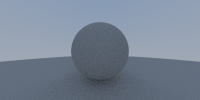
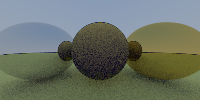
materials addedgit add *!

diff --git a/src/main.rs b/src/main.rs
@@ -3,7 +3,6 @@ extern crate rand;
 
 use image::{ImageBuffer, Pixel, Rgb};
 use std::f32;
-use rand::random;
 
 mod vec3;
 use vec3::*;
@@ -17,29 +16,30 @@ mod world;
 use world::*;
 mod camera;
 use camera::*;
+mod material;
+use material::*;
+mod utils;
 
-fn color(ray: Ray, world: &World) -> Vec3 {
-    let mut hit_record: HitRecord = HitRecord::new();
-    if world.hit(&ray, 0.0001, 255.0, &mut hit_record) {
-        let target: Vec3 = hit_record.p + hit_record.normal + random_in_unit_sphere();
-        return 0.5*color(Ray::new(hit_record.p, target-hit_record.p), &world);
+fn color(ray: Ray, world: &World, depth: i32) -> Vec3 {
+    let mut hit_record: HitRecord = HitRecord::new(
+        Material::new_blank()
+    );
+    if world.hit(&ray, 0.0001, f32::MAX, &mut hit_record) {
+        let mut scattered: Ray = Ray::new_empty();
+        let mut attenuation: Vec3 = Vec3::new(0.0, 0.0, 0.0);
+        let scatter_result: (bool, Ray, Vec3) = hit_record.mat.scatter(&ray, &hit_record, &attenuation, &scattered);
+        if depth < 50 && scatter_result.0 {
+            return scatter_result.2*color(scatter_result.1, &world, depth+1);
+        }
+        else {
+            return Vec3::new(0.0, 0.0, 0.0);
+        }
     }
     else {
         let unit_direction: Vec3 = Vec3::unit_vector(ray.direction());
         let t: f32 = 0.5 * (unit_direction.y() + 1.0);
         return (1.0-t)*Vec3::new(1.0, 1.0, 1.0) + t*Vec3::new(0.5, 0.7, 1.0);
     }
-}
-
-fn random_in_unit_sphere() -> Vec3 {
-    let mut p: Vec3 = Vec3::new(0.0, 0.0, 0.0);
-    loop {
-        p = 2.0*Vec3::new(rand::random::<f32>(),rand::random::<f32>(),rand::random::<f32>()) - Vec3::new(1.0, 1.0, 1.0);
-        if p.squared_length() >= 1.0 {
-            break;
-        }
-    }
-    p
 }
 
 fn main() {
@@ -54,10 +54,35 @@ fn main() {
     let cam: Camera = Camera::new();
 
     let mut spheres: Vec<Sphere> = Vec::new();
-    spheres.push(Sphere::new(Vec3::new(0.0, 0.0, -1.0), 0.5));
-    spheres.push(Sphere::new(Vec3::new(0.0, -100.5, -1.0), 100.0));
+    spheres.push(
+        Sphere::new(
+            Vec3::new(0.0, 0.0, -1.0), 0.5,
+            Material::new(Vec3::new(0.8, 0.6, 0.2), MaterialComposition::Lambertian)
+        )
+    );
+    spheres.push(
+        Sphere::new(
+            Vec3::new(0.0, -100.5, -1.0),
+            100.0,
+             Material::new(Vec3::new(0.8, 0.8, 0.3), MaterialComposition::Lambertian)
+        )
+    );
+    spheres.push(
+        Sphere::new(
+            Vec3::new(1.0, 0.0, -1.0),
+            0.5,
+             Material::new(Vec3::new(0.8, 0.6, 0.2), MaterialComposition::Metal)
+        )
+    );
+    spheres.push(
+        Sphere::new(
+            Vec3::new(-1.0, 0.0, -1.0),
+            0.5,
+             Material::new(Vec3::new(0.8, 0.8, 0.8), MaterialComposition::Metal)
+        )
+    );
     let world: World = World::from_vec(spheres);
-
+    let depth: i32 = 0;
     for j in 0..ny {
         for i in 0..nx {
             let mut col: Vec3 = Vec3::new(0.0, 0.0, 0.0);
@@ -66,7 +91,7 @@ fn main() {
                 let v: f32 = (((ny-j) as f32)+rand::random::<f32>())/fy;
                 let r: Ray = cam.get_ray(u, v);
                 let p: Vec3 = r.point_at_parameter(2.0);
-                col += color(r, &world);
+                col += color(r, &world, depth);
             }
             col /= fx;
             col = Vec3::new(f32::sqrt(col.r()),f32::sqrt(col.g()),f32::sqrt(col.b()) );

diff --git a/src/material.rs b/src/material.rs
@@ -1,0 +1,54 @@
+
+use vec3::*;
+use ray::*;
+use hit::*;
+use utils::*;
+
+#[derive(Debug, Copy, Clone)]
+pub enum MaterialComposition {
+    Lambertian,
+    Metal
+}
+
+#[derive(Debug, Copy, Clone)]
+pub struct Material {
+    pub albedo: Vec3,
+    pub composition: MaterialComposition
+}
+
+impl Material {
+
+    pub fn new(albedo: Vec3, composition: MaterialComposition) -> Self {
+        Material {
+            albedo,
+            composition
+        }
+    }
+    pub fn new_blank() -> Self {
+        Material {
+            albedo: Vec3::new(0.0, 0.0, 0.0),
+            composition: MaterialComposition::Lambertian
+        }
+    }
+
+    pub fn scatter(&self, r_in: &Ray, hit_record: &HitRecord, attenuation: &Vec3, scattered: &Ray) -> (bool, Ray, Vec3) {
+        match self.composition {
+            MaterialComposition::Lambertian => self.scatter_lambertian(&r_in, &hit_record, &attenuation, &scattered),
+            MaterialComposition::Metal => self.scatter_metal(&r_in, &hit_record, &attenuation, &scattered)
+        }
+    }
+
+    pub fn scatter_lambertian(&self, r_in: &Ray, hit_record: &HitRecord, attenuation: &Vec3, scattered: &Ray) -> (bool, Ray, Vec3) {
+        let target: Vec3 = hit_record.p + hit_record.normal + Utils::random_in_unit_sphere();
+        let scatter: Ray = Ray::new(hit_record.p, target-hit_record.p);
+        let atten: Vec3  = attenuation.copy() - self.albedo;
+        (true, scatter, atten)
+    }
+
+    pub fn scatter_metal(&self, r_in: &Ray, hit_record: &HitRecord, attenuation: &Vec3, scattered: &Ray) -> (bool, Ray, Vec3) {
+        let reflected: Vec3 = Utils::reflect(&Vec3::unit_vector(r_in.direction()), &hit_record.normal);
+        let scatter: Ray = Ray::new(hit_record.p, reflected);
+        let atten: Vec3  = self.albedo;
+        (Vec3::dot(&scatter.direction(), &hit_record.normal) > 0.0, scatter, atten)
+    }
+}

diff --git a/src/sphere.rs b/src/sphere.rs
@@ -2,17 +2,20 @@
 use vec3::*;
 use hit::*;
 use ray::*;
+use material::*;
 
 pub struct Sphere {
     pub radius: f32,
-    pub center: Vec3
+    pub center: Vec3,
+    pub mat: Material,
 }
 
 impl Sphere {
-    pub fn new(center: Vec3, radius: f32) -> Self {
+    pub fn new(center: Vec3, radius: f32, mat: Material) -> Self {
         Sphere {
             center,
-            radius
+            radius,
+            mat
         }
     }
 }
@@ -30,6 +33,7 @@ impl Hit for Sphere {
                 rec.t = temp;
                 rec.p = r.point_at_parameter(rec.t);
                 rec.normal = (rec.p - self.center) / self.radius;
+                rec.mat = self.mat;
                 return true;
             }
             temp = (-b + f32::sqrt(f32::powf(b, 2.0) - a*c))/a;
@@ -37,6 +41,7 @@ impl Hit for Sphere {
                 rec.t = temp;
                 rec.p = r.point_at_parameter(rec.t);
                 rec.normal = (rec.p - self.center) / self.radius;
+                rec.mat = self.mat;
                 return true;
             }
         }

diff --git a/src/hit.rs b/src/hit.rs
@@ -1,33 +1,39 @@
 
 use vec3::*;
 use ray::*;
+use material::*;
 
 #[derive(Debug, Copy, Clone)]
 pub struct HitRecord {
     pub t: f32,
     pub p: Vec3,
-    pub normal: Vec3
+    pub normal: Vec3,
+    pub mat: Material
 }
 
 impl HitRecord {
-    pub fn new() -> Self {
+    pub fn new(mat: Material) -> Self {
         HitRecord{
             t: 0.0,
             p: Vec3::new(0.0, 0.0, 0.0),
-            normal: Vec3::new(0.0, 0.0, 0.0)
+            normal: Vec3::new(0.0, 0.0, 0.0),
+            mat
         }
     }
     pub fn from_hit_record(rec: &HitRecord) -> Self {
         HitRecord{
             t: rec.t,
             p: rec.p,
-            normal: rec.normal
+            normal: rec.normal,
+            mat: rec.mat
         }
     }
     pub fn copy_from_hit_record(&mut self, rec: &HitRecord) {
+
         self.t = rec.t;
         self.p = rec.p;
         self.normal = rec.normal;
+        self.mat = rec.mat;
     }
 }
 

diff --git a/src/utils.rs b/src/utils.rs
@@ -1,0 +1,26 @@
+
+extern crate rand;
+
+use vec3::*;
+
+pub struct Utils {}
+
+impl Utils {
+    pub fn random_in_unit_sphere() -> Vec3 {
+        let mut p: Vec3 = Vec3::new(0.0, 0.0, 0.0);
+        loop {
+            p = 2.0*Vec3::new(
+                rand::random::<f32>(),
+                rand::random::<f32>(),
+                rand::random::<f32>()
+            ) - Vec3::new(1.0, 1.0, 1.0);
+            if p.squared_length() >= 1.0 {
+                break;
+            }
+        }
+        p
+    }
+    pub fn reflect(v: &Vec3, n: &Vec3) -> Vec3 {
+        v.copy() - 2.0*Vec3::dot(v, n)*n.copy()
+    }
+}

diff --git a/src/world.rs b/src/world.rs
@@ -2,6 +2,7 @@
 use hit::*;
 use ray::*;
 use sphere::*;
+use material::*;
 
 pub struct World {
     pub contents: Vec<Sphere>
@@ -22,7 +23,7 @@ impl World {
 
 impl Hit for World {
     fn hit(&self, r: &Ray, t_min: f32, t_max: f32, rec: &mut HitRecord) -> bool {
-        let mut temp_rec: HitRecord = HitRecord::new();
+        let mut temp_rec: HitRecord = HitRecord::new(Material::new_blank());
         let mut hit_anything: bool = false;
         let mut closest_so_far: f32 = t_max;
         for object in self.contents.iter() {

diff --git a/src/vec3.rs b/src/vec3.rs
@@ -43,15 +43,15 @@ impl Vec3 {
     }
 
     pub fn r(&self) -> f32 {
-        self.e[0]
+        f32::abs(self.e[0])
     }
 
     pub fn g(&self) -> f32 {
-        self.e[1]
+        f32::abs(self.e[1])
     }
 
     pub fn b(&self) -> f32 {
-        self.e[2]
+        f32::abs(self.e[2])
     }
 
     pub fn x_u8(&self) -> u8 {

diff --git a/src/ray.rs b/src/ray.rs
@@ -16,6 +16,13 @@ impl Ray {
         }
     }
 
+    pub fn new_empty() -> Self {
+        Ray {
+            a: Vec3::new(0.0, 0.0, 0.0),
+            b: Vec3::new(0.0, 0.0, 0.0)
+        }
+    }
+
     pub fn origin(&self) -> Vec3 {
         Vec3::from_vec3(&self.a)
     }
